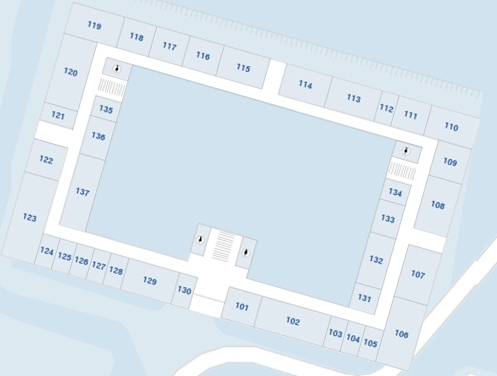
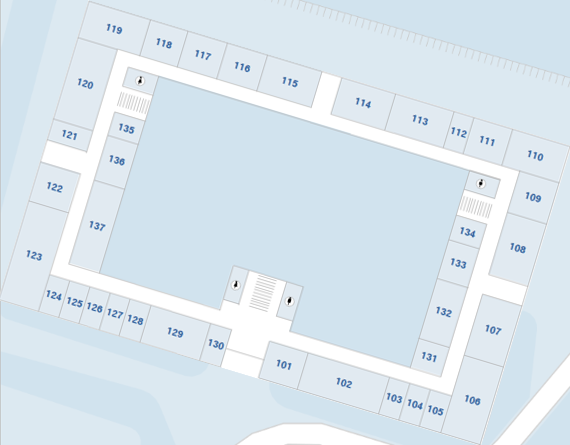
asdfff

diff --git a/index.html b/index.html
@@ -6,7 +6,7 @@
 </head>
 <body>
 	<script type="text/javascript" src="//dapi.kakao.com/v2/maps/sdk.js?appkey=d089c7cdc529dee06cb3eb318a5f010a"></script>
-	<div id="map" style="width:100%;height: 400px; float: left;"></div>
+	<div id="map" style="width:100%;height: 600px; float: left;"></div>
 
 	<!-- <div style="clear: both;"></div>
 
@@ -88,12 +88,13 @@
 	};
 
 	// LatLng, LatLngBounds 를 사용하는 코드로 변경해야 함.37.502, 127.026581
-	var sw = new kakao.maps.LatLng(창학관좌표[0]-0.00085, 창학관좌표[1]-0.00065);
-		ne = new kakao.maps.LatLng(창학관좌표[0]+0.0009, 창학관좌표[1]+0.00063);
+	var sw = new kakao.maps.LatLng(창학관좌표[0]-0.00043, 창학관좌표[1]-0.00065);
+		ne = new kakao.maps.LatLng(창학관좌표[0]+0.00031, 창학관좌표[1]+0.00055);
 		0.00018
 	var bounds = new kakao.maps.LatLngBounds(sw, ne);
 		
-	var overlay = new GroundOverlay(bounds, 'https://github.com/goyunho1/changhak-map/blob/main/img/map.png?raw=true');
+	// var overlay = new GroundOverlay(bounds, 'https://github.com/goyunho1/changhak-map/blob/main/img/map.png?raw=true');
+	var overlay = new GroundOverlay(bounds, 'img/map.png');
 	overlay.setMap(map);
 
 
